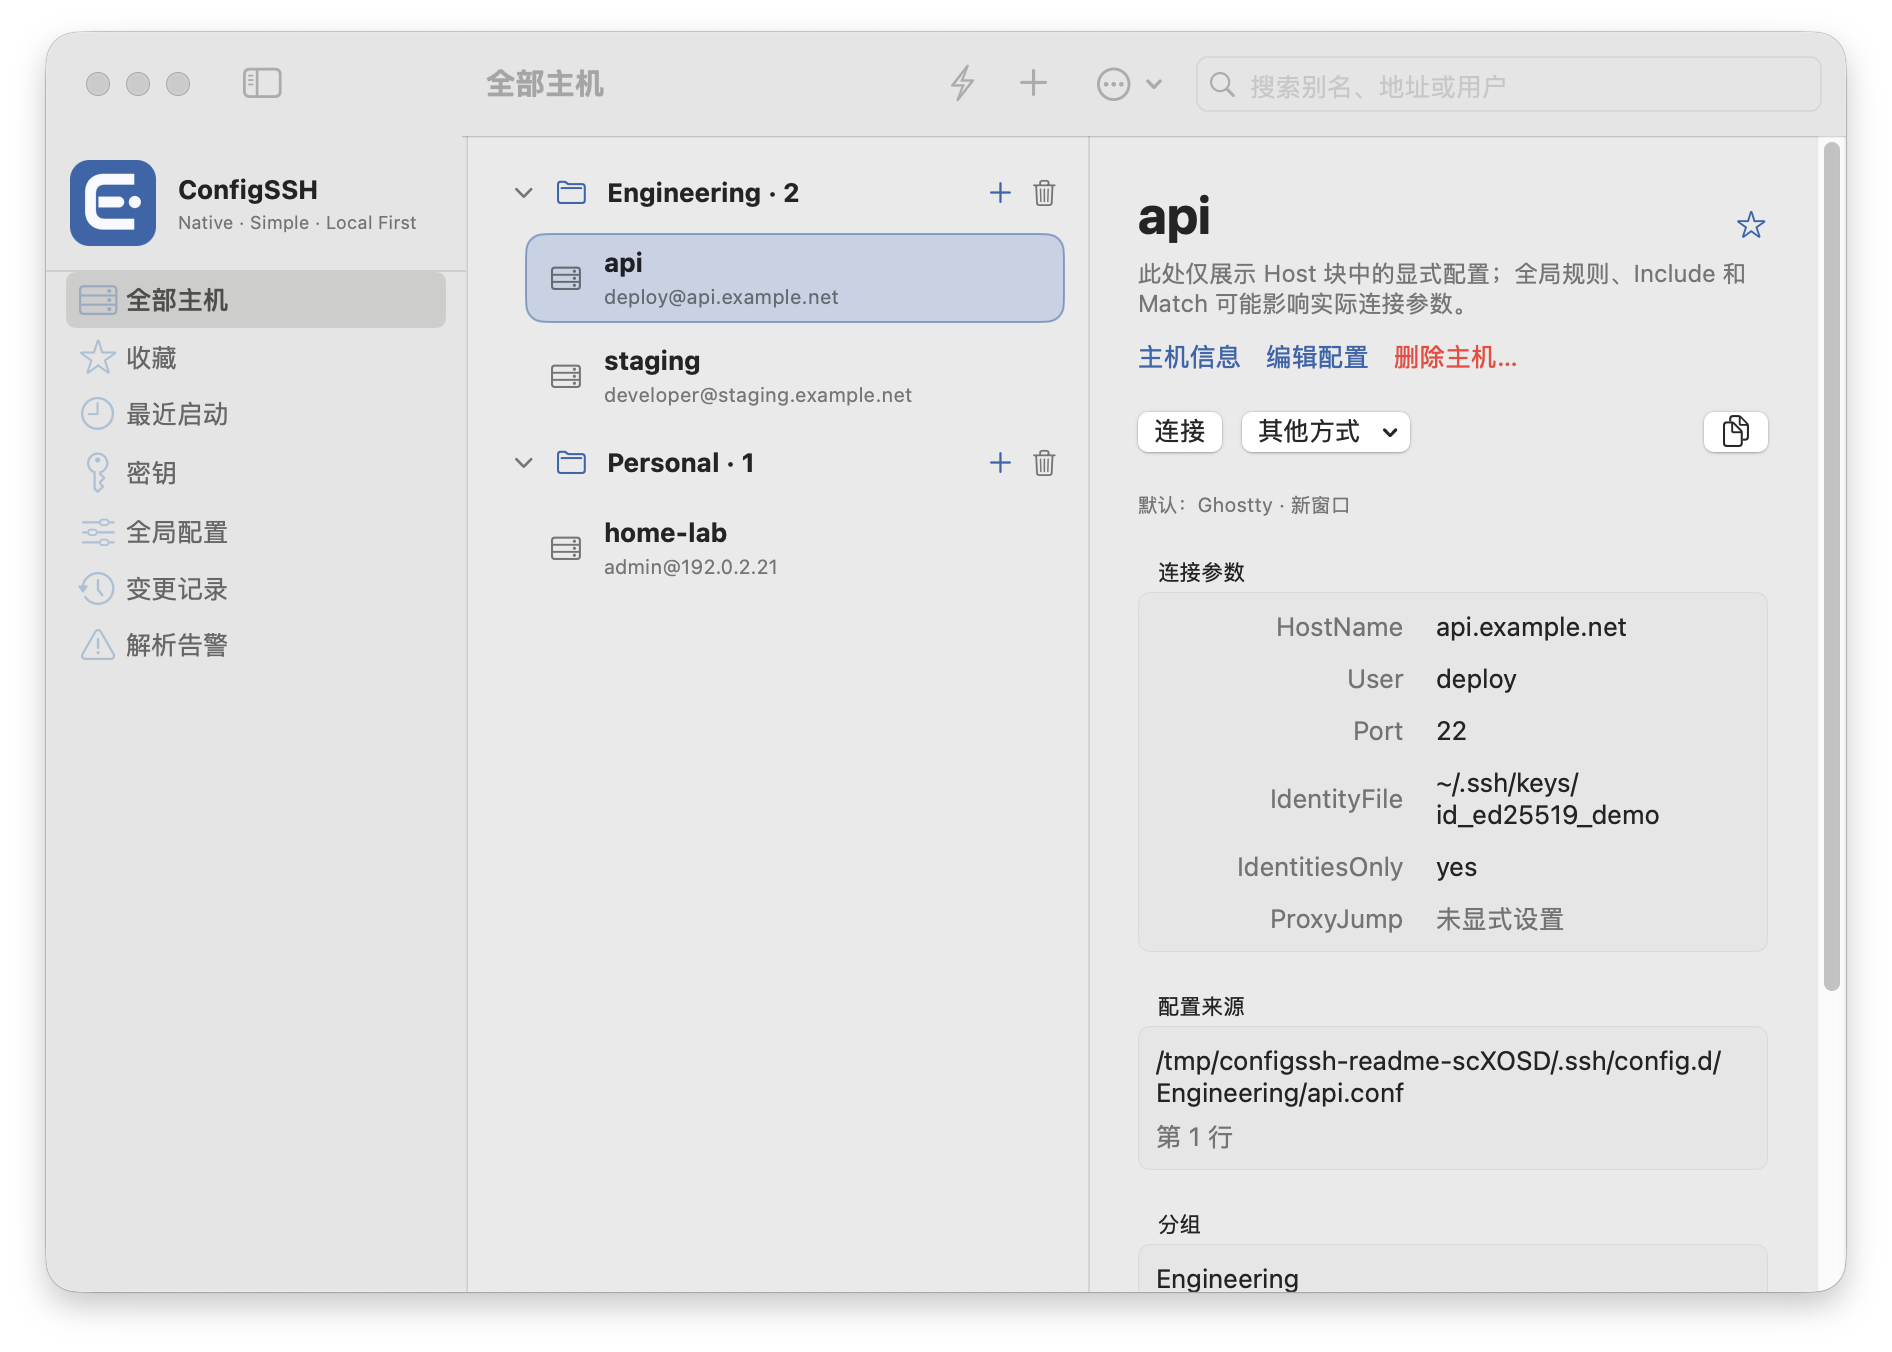
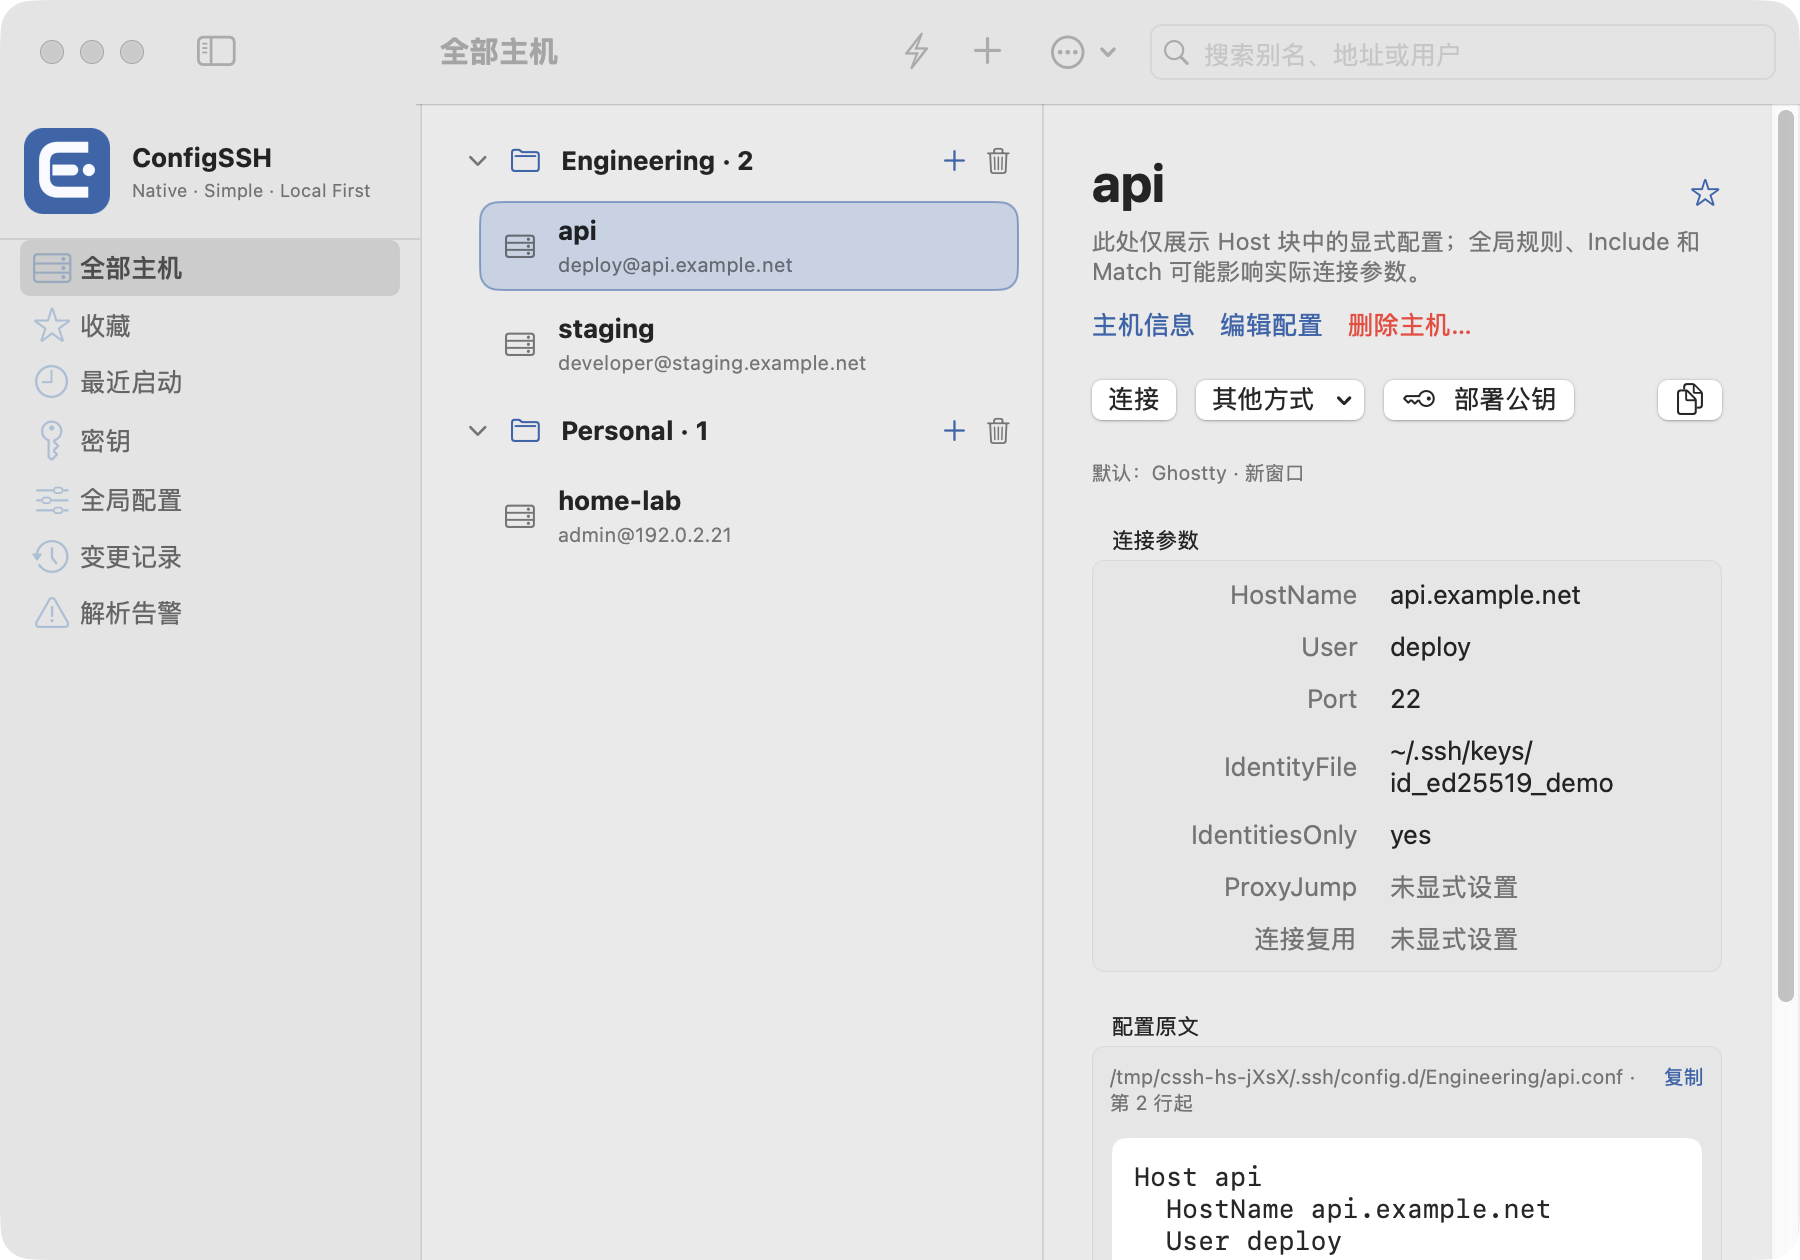
Add quick-connect screenshots and polish the search list
README gains real screenshots of the global-shortcut search panel and
the menu bar dropdown, and an updated host detail screenshot showing
the deploy-key button and config source text.

The quick-connect list shows each host's group and searches by config
group, the terminal menu no longer stretches across the row, the menu
bar dropdown keeps a minimum list height on first open, and both panels
share the same key hints.

Debug preview hooks host the same QuickLaunchView in an ordinary window
for screenshots, since the non-activating panel and Bartender-hidden
status items cannot be captured.

diff --git a/Sources/ConfigSSH/QuickLaunchView.swift b/Sources/ConfigSSH/QuickLaunchView.swift
@@ -30,12 +30,19 @@ struct QuickLaunchView: View {
     @State private var launcher = TerminalLaunchService()
     @State private var capabilities: [TerminalCapability] = []
     @State private var terminalProbeTask: Task<Void, Never>?
-    @State private var query = ""
+    @State private var query = Self.previewQuery
     @State private var selectedHostID: String?
     @State private var statusMessage: String?
     @FocusState private var searchFocused: Bool
     @AppStorage("defaultTerminal") private var defaultTerminalRaw = ""
     @AppStorage("defaultOpenMode") private var defaultOpenModeRaw = TerminalOpenMode.window.rawValue
+
+    private static var previewQuery: String {
+        #if DEBUG
+        if ConfigSSHPaths.isPreviewMode { return ProcessInfo.processInfo.environment["CONFIGSSH_PREVIEW_QUERY"] ?? "" }
+        #endif
+        return ""
+    }
 
     private var effectiveSelectedID: String? {
         QuickLaunchSelection.resolvedID(selectedHostID, visibleIDs: results.map(\.id))
@@ -48,7 +55,7 @@ struct QuickLaunchView: View {
     private var results: [HostRecord] {
         let filtered = scan.hosts.filter { host in
             let details = metadata[host.metadataKey]
-            let fields = [host.alias, host.hostName ?? "", host.user ?? "",
+            let fields = [host.alias, host.hostName ?? "", host.user ?? "", host.configGroup ?? "",
                           details?.displayName ?? "", details?.groupName ?? ""] + (details?.tags ?? [])
             let terms = query.split(whereSeparator: \.isWhitespace)
             return terms.allSatisfy { term in
@@ -120,6 +127,13 @@ struct QuickLaunchView: View {
                                             .foregroundStyle(.secondary)
                                     }
                                     Spacer()
+                                    if let group = host.configGroup ?? metadata[host.metadataKey]?.groupName, !group.isEmpty {
+                                        Text(group)
+                                            .font(.caption)
+                                            .padding(.horizontal, 6)
+                                            .padding(.vertical, 2)
+                                            .background(.quaternary, in: Capsule())
+                                    }
                                     Text(preferredTerminal(for: host)?.displayName ?? "未配置")
                                         .font(.caption)
                                         .foregroundStyle(.secondary)
@@ -138,11 +152,12 @@ struct QuickLaunchView: View {
                         }
                     }
                 }
-                .frame(maxHeight: style == .floatingPanel ? .infinity : 300)
+                .frame(minHeight: style == .embedded ? min(CGFloat(results.count), 5) * 54 : 0,
+                       maxHeight: style == .floatingPanel ? .infinity : 300)
             }
             if let host = selectedHost {
                 HStack {
-                    Text(style == .floatingPanel ? "↑↓ 选择 · ↵ 连接 · Esc 关闭" : "↵ 连接 · ⌘K 快速打开")
+                    Text("↑↓ 选择 · ↵ 连接 · Esc 关闭")
                         .font(.caption)
                         .foregroundStyle(.secondary)
                     Spacer()
@@ -158,6 +173,7 @@ struct QuickLaunchView: View {
                             .disabled(!capability.supportsTab)
                         }
                     }
+                    .fixedSize()
                     if !TerminalLaunchPlanner.isSafeAlias(host.alias) {
                         Button("复制 SSH 命令") {
                             NSPasteboard.general.clearContents()

diff --git a/Sources/ConfigSSH/ConfigSSHApp.swift b/Sources/ConfigSSH/ConfigSSHApp.swift
@@ -33,6 +33,25 @@ struct ConfigSSHApp: App {
                 GlobalShortcutManager.shared.showPanel()
             }
         }
+        if ConfigSSHPaths.isPreviewMode, ProcessInfo.processInfo.environment["CONFIGSSH_PREVIEW_MENU_DROPDOWN"] == "1" {
+            // Screenshots: the menu bar dropdown's content (same embedded QuickLaunchView) in an
+            // ordinary window, for setups where a menu bar manager hides new status items.
+            Task { @MainActor in
+                try? await Task.sleep(for: .seconds(2))
+                let window = NSWindow(contentRect: NSRect(x: 0, y: 0, width: 520, height: 420),
+                                      styleMask: [.titled, .fullSizeContentView], backing: .buffered, defer: false)
+                window.styleMask = [.borderless]
+                window.title = "ConfigSSH · 菜单栏预览"
+                let hosting = NSHostingView(rootView: QuickLaunchView())
+                window.contentView = hosting
+                window.setContentSize(NSSize(width: 520, height: 430))
+                window.isReleasedWhenClosed = false
+                if let main = NSApp.windows.first(where: { $0.isVisible })?.frame {
+                    window.setFrameTopLeftPoint(NSPoint(x: main.midX - 260, y: main.maxY - 60))
+                }
+                window.orderFrontRegardless()
+            }
+        }
         #endif
         Task { @MainActor in UpdateChecker.shared.checkAtLaunchIfEnabled() }
     }

diff --git a/Sources/ConfigSSH/GlobalShortcutManager.swift b/Sources/ConfigSSH/GlobalShortcutManager.swift
@@ -150,6 +150,8 @@ final class GlobalShortcutManager {
                                            styleMask: [.titled, .fullSizeContentView], backing: .buffered, defer: false)
             preview.titlebarAppearsTransparent = true
             preview.titleVisibility = .hidden
+            preview.backgroundColor = .clear
+            preview.isOpaque = false
             preview.title = "ConfigSSH · 快速连接"
             preview.hidesOnDeactivate = false
             return preview

diff --git a/MILESTONES.md b/MILESTONES.md
@@ -265,4 +265,10 @@
 - **菜单栏图标过大：** 原因是 64 px 的模板图按 64×64 点加载，而 `MenuBarExtra` 根据图片本身确定状态栏项尺寸、忽略 SwiftUI `.frame`，导致状态栏项宽 66 pt（菜单栏高 22 pt）。改为在代码中把图片设为 18 pt（`BrandIcon.menuBarPointSize`），实测状态栏项变为 20 × 22 pt，与系统图标一致；在浅色/深色菜单栏背景下与 Wi‑Fi、电池符号并排渲染核对过大小和清晰度。
 - **全局快捷键呼出搜索：** 原有全局快捷键默认关闭，且打开的是普通标题窗口并会把 ConfigSSH 切到前台。现在默认 `⌥⌘K`（系统默认未占用），可选 `⌃⌥K`、`⌥Space`、`⌃⌥Space`、`⌃⇧Space` 或关闭，并对与输入法或常用启动器冲突的组合给出提示。按下后在鼠标所在屏幕的上方弹出无边框、非激活的浮动搜索面板（当前应用保持前台），再按一次或 Esc 关闭，失去焦点自动关闭；输入关键词、↑↓ 选择、回车用默认终端连接，交给终端后面板关闭。设置页“通用 › 快速连接”提供“立即试用”。
 - **文档：** README 功能一览更新（快速连接、配置原文、连接复用、部署公钥、自动快照），新增“随时搜索并连接”一节说明全局快捷键、菜单栏图标与主窗口 ⌘K 三个入口及搜索方式，快捷键表更新为默认 `⌥⌘K`；AGENTS.md 记录全局快捷键与菜单栏图标尺寸约束。
-- 验证：`swift test` 177 项通过，`swift build -c release`、`git diff --check` 通过；用 `/tmp` 脱敏夹具启动 Debug 应用，确认浮动面板出现（550 × 432 pt）且 Finder 仍为前台应用。**未完成：** 本次两台显示器均处于睡眠，截图为全黑，README 新截图（全局搜索面板、菜单栏下拉）尚未补上；按全局快捷键的真实按键、回车连接未在窗口中实测。
+- 验证：`swift test` 177 项通过，`swift build -c release`、`git diff --check` 通过；用 `/tmp` 脱敏夹具启动 Debug 应用，确认浮动面板出现（550 × 432 pt）且 Finder 仍为前台应用。按全局快捷键的真实按键、回车连接未在窗口中实测。
+
+### 2026 年 11 月 18 日 README 截图补充
+
+- 新增 `quick-connect-shortcut.png`（全局快捷键搜索框，输入 `eng` 后按分组筛选出 3 台主机）与 `quick-connect-menubar.png`（菜单栏下拉面板），放在 README “随时搜索并连接”一节；重拍 `hosts.png`，展示新的“部署公钥”按钮与“配置原文”区块。全部使用 `/tmp` 脱敏夹具与真实 Debug 应用截取。
+- 截图限制：非激活的无边框浮动面板无法被 `screencapture` 截取，本机菜单栏还由 Bartender 管理、新状态栏项被隐藏，因此 Debug 预览模式把相同的 `QuickLaunchView` 放在普通窗口中截图（`CONFIGSSH_PREVIEW_QUICK_PANEL`、`CONFIGSSH_PREVIEW_MENU_DROPDOWN`），README 中已注明。
+- 截图过程中顺带改进：快速连接列表显示分组标签，搜索也匹配配置目录分组；“选择终端”菜单不再拉伸占满整行；菜单栏下拉面板首次打开时列表有最小高度，不再只露出两行；两处提示统一为“↑↓ 选择 · ↵ 连接 · Esc 关闭”。

diff --git a/README.md b/README.md
@@ -10,7 +10,7 @@ Manage SSH Config Visually. Connect Effortlessly.
 
 </div>
 
-![ConfigSSH 的全部主机页面：左侧功能导航，中部按 Engineering 和 Personal 分组并高亮 api 主机，右侧展示 api 的 HostName、User、Port、IdentityFile、IdentitiesOnly、配置来源和分组](Assets/screenshots/hosts.png)
+![ConfigSSH 的全部主机页面：左侧功能导航，中部按 Engineering 和 Personal 分组并高亮 api 主机；右侧是 api 的详情：连接、其他方式和部署公钥按钮，HostName、User、Port、IdentityFile、IdentitiesOnly、ProxyJump、连接复用等连接参数，以及显示源文件原文的“配置原文”区块](Assets/screenshots/hosts.png)
 
 > [!NOTE]
 > ConfigSSH 目前是**预览版**：只能从源码构建，或使用未签名的预发布包。详见[已知限制](#已知限制)。
@@ -142,6 +142,19 @@ ConfigSSH 启动后会读取 `~/.ssh/config` 及其能访问的 `Include` 文件
 | **全局快捷键** | 在任何应用中按 `⌥⌘K`，屏幕上方弹出搜索框；再按一次或按 `Esc` 关闭 |
 | **菜单栏图标** | 点击顶部菜单栏的 ConfigSSH 图标，在下拉面板中搜索 |
 | **主窗口** | 在 ConfigSSH 中按 `⌘K` |
+
+<table>
+<tr>
+<td width="50%"><img src="Assets/screenshots/quick-connect-shortcut.png" alt="全局快捷键呼出的搜索框：输入 eng 后只列出 Engineering 分组的 api、db-primary、staging 三台主机，第一项高亮，右侧显示分组标签和默认终端 Ghostty，底部提示 ↑↓ 选择、↵ 连接、Esc 关闭"></td>
+<td width="50%"><img src="Assets/screenshots/quick-connect-menubar.png" alt="菜单栏图标下拉面板：未输入关键词时按最近连接列出 5 台示例主机，显示地址、分组标签和默认终端，右下角可选择其他终端"></td>
+</tr>
+<tr>
+<td align="center"><b>全局快捷键</b>：按 <code>⌥⌘K</code>，输入关键词筛选主机</td>
+<td align="center"><b>菜单栏图标</b>：点击后在下拉面板中搜索</td>
+</tr>
+</table>
+
+<sub>两张截图都来自用临时脱敏配置运行的真实应用。截图时为了能截取窗口，搜索面板用普通窗口承载，内容与实际弹出的面板相同；实际使用时搜索框浮在当前应用之上，菜单栏面板从顶部图标下方展开。</sub>
 
 在搜索框中：
 
